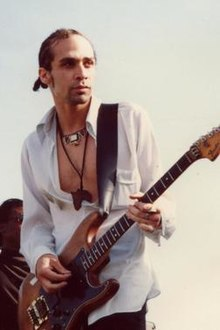
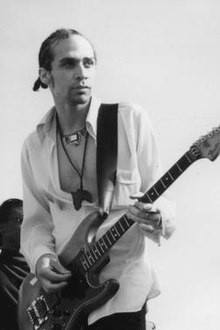
black and white Aric

diff --git a/main.css b/main.css
@@ -15,12 +15,10 @@ body {
 	overflow-x: hidden;
 }
 
-
 #main_logo {
 	width: 45px;
 	height: 45px;
 }
-
 
 .instruments {
 	width: 37px;
@@ -37,7 +35,6 @@ body {
 	height: 100%;
 }
 
-
 #cards  img {
 	height: 300px;
 }
@@ -47,13 +44,20 @@ body {
 	background-attachment: scroll;
 }
 
+#albums {
+	overflow-x: hidden;
+}
+
+.albums {
+	position: fixed;
+}
+
 .albums, #albums {
 	display: inline-block; 
 	white-space: nowrap;
 	opacity: .9;
 	position: relative;
 	margin-left: 0px;
-	
 }
 
 .albums {
@@ -70,17 +74,14 @@ p.card-title {
 	font-weight: bold;
 }
 
-
 .btn-primary {
 	background-color: lightblue;
 }
-
 
 .btn-primary:hover {
 	background-color: #653d7c;
 	border: 1px solid #563d7c;
 }
-
 
 .jumbotron {
 	padding: 1rem;
@@ -97,14 +98,12 @@ p.card-title {
 	padding-top: 2rem;
 }
 
-
 .welcome hr {
 	border-top: 2px solid #b4b4b4;
 	width: 95%;
 	margin-top: .3rem;
 	margin-bottom: 1rem;
 }
-
 
 footer {
 	background-color: #3f3f3f;
@@ -113,7 +112,6 @@ footer {
 
 }
 
-
 hr.light {
 	border-top: 1px solid #d5d5d5;
 	width: 75%;
@@ -121,7 +119,6 @@ hr.light {
 	margin-bottom: 1rem;
 
 }
-
 
 hr.line {
 	width: 50%;

diff --git a/index.html b/index.html
@@ -77,7 +77,7 @@
 						Red Hot Chili Peppers are an American rock band formed in Los Angeles in 1983. The group's musical style primarily consists of rock with an emphasis on funk, as well as elements from other genres such as punk rock and psychedelic rock...
 					</p>
 				</div>
-				<div class='col-xs-12 col-sm-12 col-md-3 col-lg-3 col-xl-2'>
+				<div class='col-xs-12 col-sm-12 col-md-3 col-lg-3 col-xl-3'>
 					<p class='lead'>
 						...for full history click the button.
 					</p>
